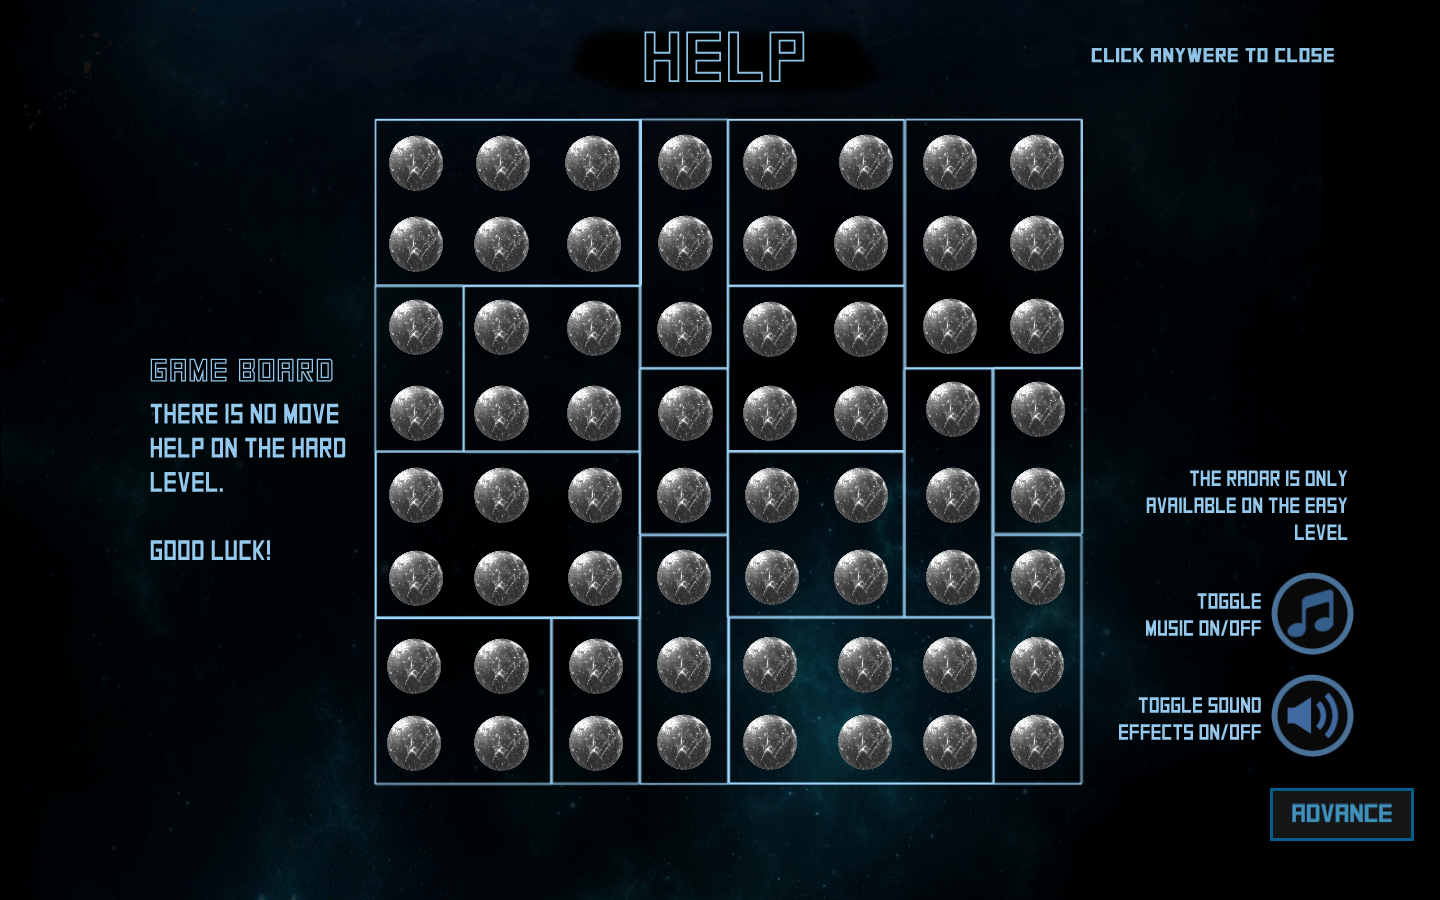
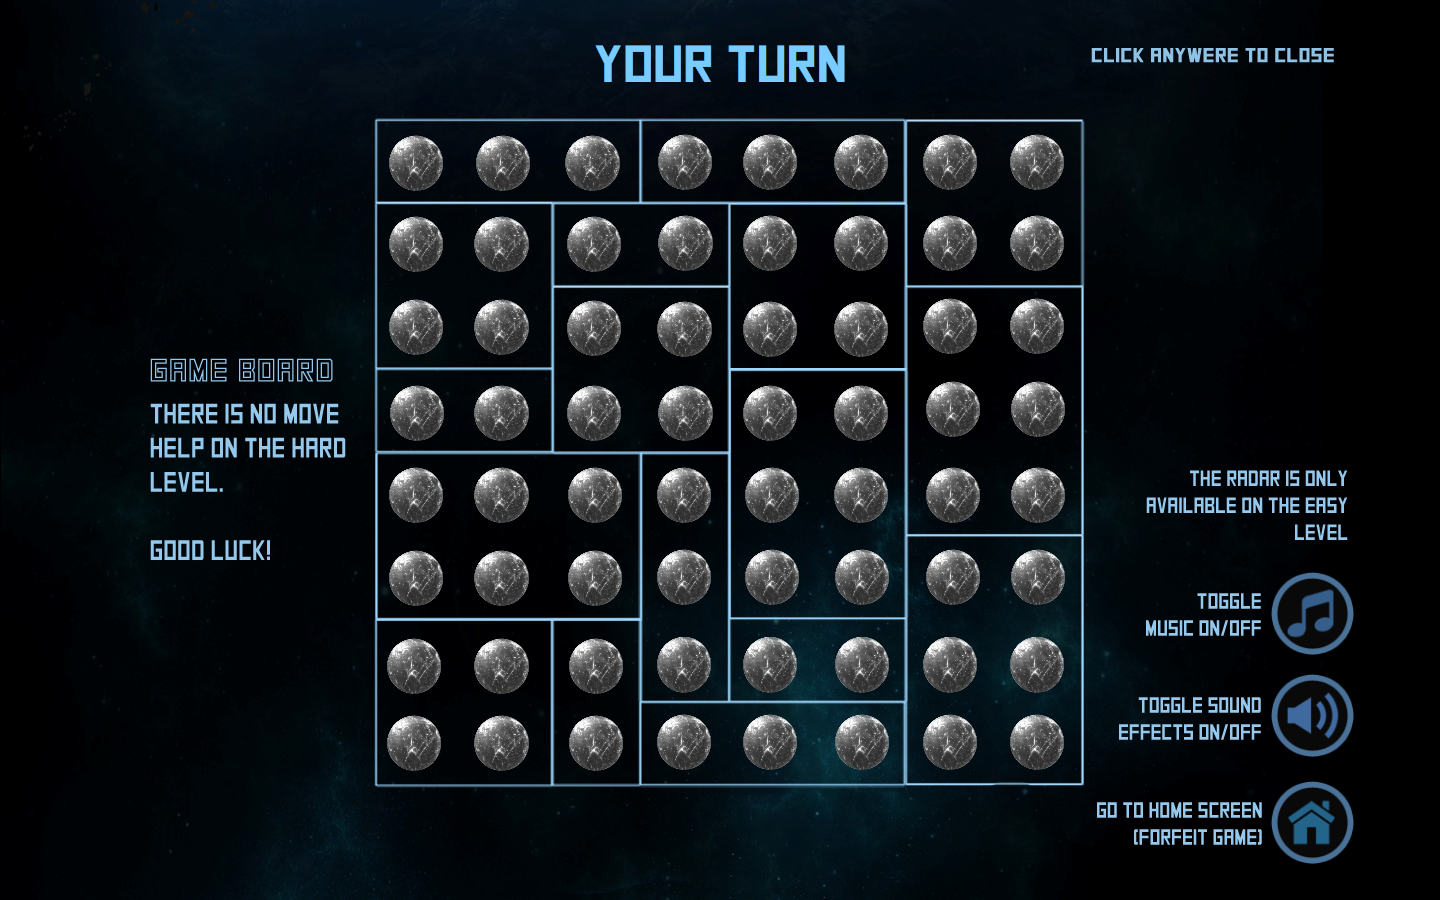
Updated Help Screens

diff --git a/Kulami/Kulami/HardGamePage.xaml b/Kulami/Kulami/HardGamePage.xaml
@@ -19,7 +19,6 @@
             <Canvas.Background>
                 <ImageBrush Stretch="None"/>
             </Canvas.Background>
-            <Button x:Name="advanceButton" Content="advance" Canvas.Left="1270" Canvas.Top="788" Width="144" Height="53" Background="#822B2B2B" BorderBrush="#FF015E8B" BorderThickness="3" FontFamily="SquareFont" FontSize="25" HorizontalAlignment="Center" VerticalAlignment="Center" TextOptions.TextHintingMode="Animated" Foreground="#FF4192B9" Panel.ZIndex="2" Click="Button_Click"/>
             <Canvas Name="GameBoard" OpacityMask="{x:Null}" Margin="0,0,0,0" Height="900" VerticalAlignment="Top" HorizontalAlignment="Left" Width="1209" Panel.ZIndex="1">
 
                 <Button Name="BoardBackground" IsEnabled="False" Height="810" Width="1530" BorderBrush="{x:Null}" Foreground="{x:Null}" Canvas.Left="-57" Canvas.Top="10"/>
@@ -122,8 +121,13 @@
             <Button x:Name="toggleSound_Btn" Panel.ZIndex="1" ToolTip="Toggle Sound Effects On/Off" Content="" Canvas.Left="1270" Canvas.Top="673" Width="85" Height="85" Background="{x:Null}" BorderBrush="{x:Null}"  HorizontalAlignment="Center" VerticalAlignment="Center" TextOptions.TextHintingMode="Animated" Foreground="{x:Null}" Click="Toggle_Sound" MouseEnter="toggleSound_Btn_MouseEnter" MouseLeave="toggleSound_Btn_MouseLeave"/>
             <Button x:Name="toggleMusicBtn" Panel.ZIndex="1" ToolTip="Toggle Music On/Off" Content="" Canvas.Left="1270" Canvas.Top="571" Width="85" Height="85" Background="{x:Null}" BorderBrush="{x:Null}"  HorizontalAlignment="Center" VerticalAlignment="Center" TextOptions.TextHintingMode="Animated" Foreground="{x:Null}" Click="toggleMusicBtn_Click" MouseEnter="toggleMusicBtn_MouseEnter" MouseLeave="toggleMusicBtn_MouseLeave" />
             <Button x:Name="screenHelpBtn" Panel.ZIndex="1" ToolTip="Help" Content="" Canvas.Left="56" Canvas.Top="783" Width="85" Height="85" Background="{x:Null}" BorderBrush="{x:Null}"  HorizontalAlignment="Center" VerticalAlignment="Center" TextOptions.TextHintingMode="Animated" Foreground="{x:Null}" Click="screenHelpBtn_Click" MouseEnter="screenHelpBtn_MouseEnter" MouseLeave="screenHelpBtn_MouseLeave"/>
+            <Button x:Name="advanceButton" ToolTip="Home" Panel.ZIndex="1" Canvas.Left="1270" Canvas.Top="780" Width="85" Height="85" BorderBrush="{x:Null}" HorizontalAlignment="Center" VerticalAlignment="Center" Click="Button_Click" MouseEnter="advanceButton_MouseEnter" MouseLeave="advanceButton_MouseLeave"/>
+            <Canvas Name="ForfeitScreen" Height="250" Width="1440" Canvas.Bottom="-250" Panel.ZIndex="1" Background="Black">
+                <Label Content="Are you sure you want to forfeit this game?" Foreground="#FF79CCFF" FontFamily="/Kulami;component/#SquareFont" FontSize="48" Width="1440" HorizontalContentAlignment="Center" Height="127" VerticalContentAlignment="Center" />
+                <Button x:Name="yesButton" Cursor="Hand" Content="Yes" Width="200" Height="75" Background="#820A0A0A" BorderBrush="#FF79CCFF" BorderThickness="3" FontFamily="SquareFont" FontSize="38" HorizontalAlignment="Center" VerticalAlignment="Center" Foreground="#FF79CCFF" Canvas.Left="476" Canvas.Top="127" Click="yesButton_Click"/>
+                <Button x:Name="noButton" Cursor="Hand" Content="No" Width="200" Height="75" Background="#820A0A0A" BorderBrush="#FF79CCFF" BorderThickness="3" FontFamily="SquareFont" FontSize="38" HorizontalAlignment="Center" VerticalAlignment="Center" Foreground="#FF79CCFF" Canvas.Left="768" Canvas.Top="127" Click="noButton_Click"/>
+            </Canvas>
             <Button Name="GameScreenHelp" Height="900" Width="1440" BorderBrush="{x:Null}" Foreground="{x:Null}" Canvas.Left="-1440" Panel.ZIndex="1" Click="GameScreenHelp_Click" Cursor="Hand"/>
-
             <Button x:Name="backgroundButton" Content="" Width="1473" Height="4797" BorderBrush="{x:Null}" Foreground="Black" Panel.ZIndex="-2" IsEnabled="False">
                 <Button.Triggers>
                     <EventTrigger RoutedEvent="Button.Loaded">

diff --git a/Kulami/Kulami/LANGamePage.xaml b/Kulami/Kulami/LANGamePage.xaml
@@ -19,7 +19,6 @@
             <Canvas.Background>
                 <ImageBrush Stretch="None"/>
             </Canvas.Background>
-            <Button x:Name="advanceButton" Content="advance" Canvas.Left="1270" Canvas.Top="788" Width="144" Height="53" Background="#822B2B2B" BorderBrush="#FF015E8B" BorderThickness="3" FontFamily="SquareFont" FontSize="25" HorizontalAlignment="Center" VerticalAlignment="Center" TextOptions.TextHintingMode="Animated" Foreground="#FF4192B9" Click="Button_Click" Panel.ZIndex="2"/>
             <Canvas Name="GameBoard" OpacityMask="{x:Null}" Margin="0,0,0,0" Height="900" VerticalAlignment="Top" HorizontalAlignment="Left" Width="1209" Panel.ZIndex="1">
                 <Button Name="BoardBackground" IsEnabled="False" Height="810" Width="1530" BorderBrush="{x:Null}" Foreground="{x:Null}" Canvas.Left="-57" Canvas.Top="10"/>
 
@@ -123,6 +122,12 @@
             <Button x:Name="toggleRadar_Btn" Content="" Canvas.Left="1270" Canvas.Top="469" Width="85" Height="85" Background="{x:Null}" BorderBrush="{x:Null}"  HorizontalAlignment="Center" VerticalAlignment="Center" TextOptions.TextHintingMode="Animated" Foreground="{x:Null}" Click="toggleRadar_Btn_Click" IsMouseDirectlyOverChanged="toggleRadar_Btn_IsMouseDirectlyOverChanged" Panel.ZIndex="1" MouseEnter="toggleRadar_Btn_MouseEnter" MouseLeave="toggleRadar_Btn_MouseLeave" ToolTip="Toggle Radar (Move Help) On/Off"/>
             <Button x:Name="toggleMusicBtn" Content="" Canvas.Left="1270" Canvas.Top="571" Width="85" Height="85" Background="{x:Null}" BorderBrush="{x:Null}"  HorizontalAlignment="Center" VerticalAlignment="Center" TextOptions.TextHintingMode="Animated" Foreground="{x:Null}" Click="toggleMusicBtn_Click" MouseEnter="toggleMusicBtn_MouseEnter" MouseLeave="toggleMusicBtn_MouseLeave" Panel.ZIndex="1" ToolTip="Toggle Music On/Off" />
             <Button x:Name="screenHelpBtn" Content="" Canvas.Left="56" Canvas.Top="783" Width="85" Height="85" Background="{x:Null}" BorderBrush="{x:Null}"  HorizontalAlignment="Center" VerticalAlignment="Center" TextOptions.TextHintingMode="Animated" Foreground="{x:Null}" Click="screenHelpBtn_Click" MouseEnter="screenHelpBtn_MouseEnter" MouseLeave="screenHelpBtn_MouseLeave" Panel.ZIndex="1" ToolTip="Help"/>
+            <Button x:Name="advanceButton" ToolTip="Home" Panel.ZIndex="1" Canvas.Left="1270" Canvas.Top="780" Width="85" Height="85" BorderBrush="{x:Null}" HorizontalAlignment="Center" VerticalAlignment="Center" Click="Button_Click" MouseEnter="advanceButton_MouseEnter" MouseLeave="advanceButton_MouseLeave"/>
+            <Canvas Name="ForfeitScreen" Height="250" Width="1440" Canvas.Bottom="-250" Panel.ZIndex="1" Background="Black">
+                <Label Content="Are you sure you want to forfeit this game?" Foreground="#FF79CCFF" FontFamily="/Kulami;component/#SquareFont" FontSize="48" Width="1440" HorizontalContentAlignment="Center" Height="127" VerticalContentAlignment="Center" />
+                <Button x:Name="yesButton" Cursor="Hand" Content="Yes" Width="200" Height="75" Background="#820A0A0A" BorderBrush="#FF79CCFF" BorderThickness="3" FontFamily="SquareFont" FontSize="38" HorizontalAlignment="Center" VerticalAlignment="Center" Foreground="#FF79CCFF" Canvas.Left="476" Canvas.Top="127" Click="yesButton_Click"/>
+                <Button x:Name="noButton" Cursor="Hand" Content="No" Width="200" Height="75" Background="#820A0A0A" BorderBrush="#FF79CCFF" BorderThickness="3" FontFamily="SquareFont" FontSize="38" HorizontalAlignment="Center" VerticalAlignment="Center" Foreground="#FF79CCFF" Canvas.Left="768" Canvas.Top="127" Click="noButton_Click"/>
+            </Canvas>
             <Button Name="GameScreenHelp" Height="900" Width="1440" BorderBrush="{x:Null}" Foreground="{x:Null}" Canvas.Left="-1440" Panel.ZIndex="1" Click="GameScreenHelp_Click" Cursor="Hand"/>
 
             <Button x:Name="backgroundButton" Content="" Width="1473" Height="4797" BorderBrush="{x:Null}" Foreground="Black" Panel.ZIndex="-2" IsEnabled="False">

diff --git a/Kulami/Kulami/LocalGamePage.xaml b/Kulami/Kulami/LocalGamePage.xaml
@@ -19,7 +19,6 @@
                 <ImageBrush Stretch="None"/>
             </Canvas.Background>
 
-            <Button x:Name="advanceButton" Content="advance" Canvas.Left="1270" Canvas.Top="788" Width="144" Height="53" Background="#822B2B2B" BorderBrush="#FF015E8B" BorderThickness="3" FontFamily="SquareFont" FontSize="25" HorizontalAlignment="Center" VerticalAlignment="Center" TextOptions.TextHintingMode="Animated" Foreground="#FF4192B9" Click="Button_Click" Panel.ZIndex="2"/>
             <Canvas Name="GameBoard" OpacityMask="{x:Null}" Margin="0,0,0,0" Height="900" VerticalAlignment="Top" HorizontalAlignment="Left" Width="1209" Panel.ZIndex="1">
                 <Button Name="BoardBackground" IsEnabled="False" Height="810" Width="1530" BorderBrush="{x:Null}" Foreground="{x:Null}" Canvas.Left="-57" Canvas.Top="10"/>
 
@@ -102,6 +101,12 @@
             <Button x:Name="toggleRadar_Btn" Content="" Canvas.Left="1270" Canvas.Top="469" Width="85" Height="85" Background="{x:Null}" BorderBrush="{x:Null}"  HorizontalAlignment="Center" VerticalAlignment="Center" TextOptions.TextHintingMode="Animated" Foreground="{x:Null}" Click="toggleRadar_Btn_Click" IsMouseDirectlyOverChanged="toggleRadar_Btn_IsMouseDirectlyOverChanged" MouseEnter="toggleRadar_Btn_MouseEnter" MouseLeave="toggleRadar_Btn_MouseLeave" Panel.ZIndex="1" ToolTip="Toggle Radar (Move Help) On/Off"/>
             <Button x:Name="toggleMusicBtn" Content="" Canvas.Left="1270" Canvas.Top="571" Width="85" Height="85" Background="{x:Null}" BorderBrush="{x:Null}"  HorizontalAlignment="Center" VerticalAlignment="Center" TextOptions.TextHintingMode="Animated" Foreground="{x:Null}" Click="toggleMusicBtn_Click" MouseEnter="toggleMusicBtn_MouseEnter" MouseLeave="toggleMusicBtn_MouseLeave" Panel.ZIndex="1" ToolTip="Toggle Music On/Off"/>
             <Button x:Name="screenHelpBtn" Content="" Canvas.Left="56" Canvas.Top="783" Width="85" Height="85" Background="{x:Null}" BorderBrush="{x:Null}"  HorizontalAlignment="Center" VerticalAlignment="Center" TextOptions.TextHintingMode="Animated" Foreground="{x:Null}" Click="screenHelpBtn_Click" MouseEnter="screenHelpBtn_MouseEnter" MouseLeave="screenHelpBtn_MouseLeave" Panel.ZIndex="1" ToolTip="Help"/>
+            <Button x:Name="advanceButton" ToolTip="Home" Panel.ZIndex="1" Canvas.Left="1270" Canvas.Top="780" Width="85" Height="85" BorderBrush="{x:Null}" HorizontalAlignment="Center" VerticalAlignment="Center" Click="Button_Click" MouseEnter="advanceButton_MouseEnter" MouseLeave="advanceButton_MouseLeave"/>
+            <Canvas Name="ForfeitScreen" Height="250" Width="1440" Canvas.Bottom="-250" Panel.ZIndex="1" Background="Black">
+                <Label Content="Are you sure you want to forfeit this game?" Foreground="#FF79CCFF" FontFamily="/Kulami;component/#SquareFont" FontSize="48" Width="1440" HorizontalContentAlignment="Center" Height="127" VerticalContentAlignment="Center" />
+                <Button x:Name="yesButton" Cursor="Hand" Content="Yes" Width="200" Height="75" Background="#820A0A0A" BorderBrush="#FF79CCFF" BorderThickness="3" FontFamily="SquareFont" FontSize="38" HorizontalAlignment="Center" VerticalAlignment="Center" Foreground="#FF79CCFF" Canvas.Left="476" Canvas.Top="127" Click="yesButton_Click"/>
+                <Button x:Name="noButton" Cursor="Hand" Content="No" Width="200" Height="75" Background="#820A0A0A" BorderBrush="#FF79CCFF" BorderThickness="3" FontFamily="SquareFont" FontSize="38" HorizontalAlignment="Center" VerticalAlignment="Center" Foreground="#FF79CCFF" Canvas.Left="768" Canvas.Top="127" Click="noButton_Click"/>
+            </Canvas>
             <Button Name="GameScreenHelp" Height="900" Width="1440" BorderBrush="{x:Null}" Foreground="{x:Null}" Canvas.Left="-1440" Panel.ZIndex="1" Click="GameScreenHelp_Click" Cursor="Hand"/>
 
             <Button x:Name="backgroundButton" Content="" Width="1473" Height="4797" BorderBrush="{x:Null}" Foreground="Black" Panel.ZIndex="-2" IsEnabled="False">
